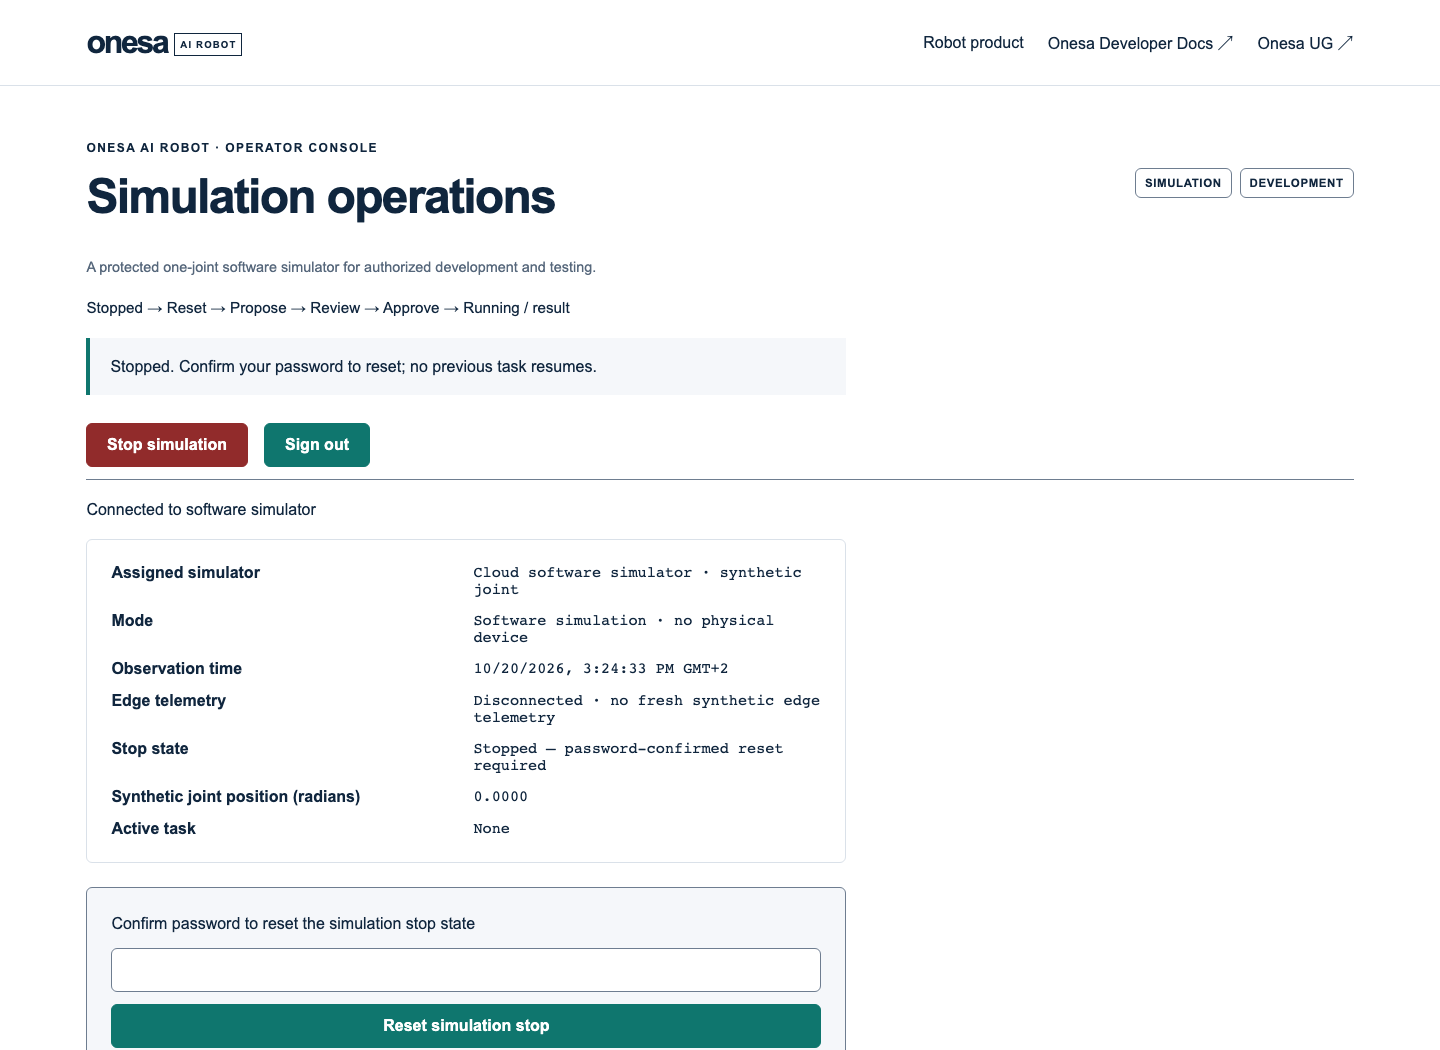
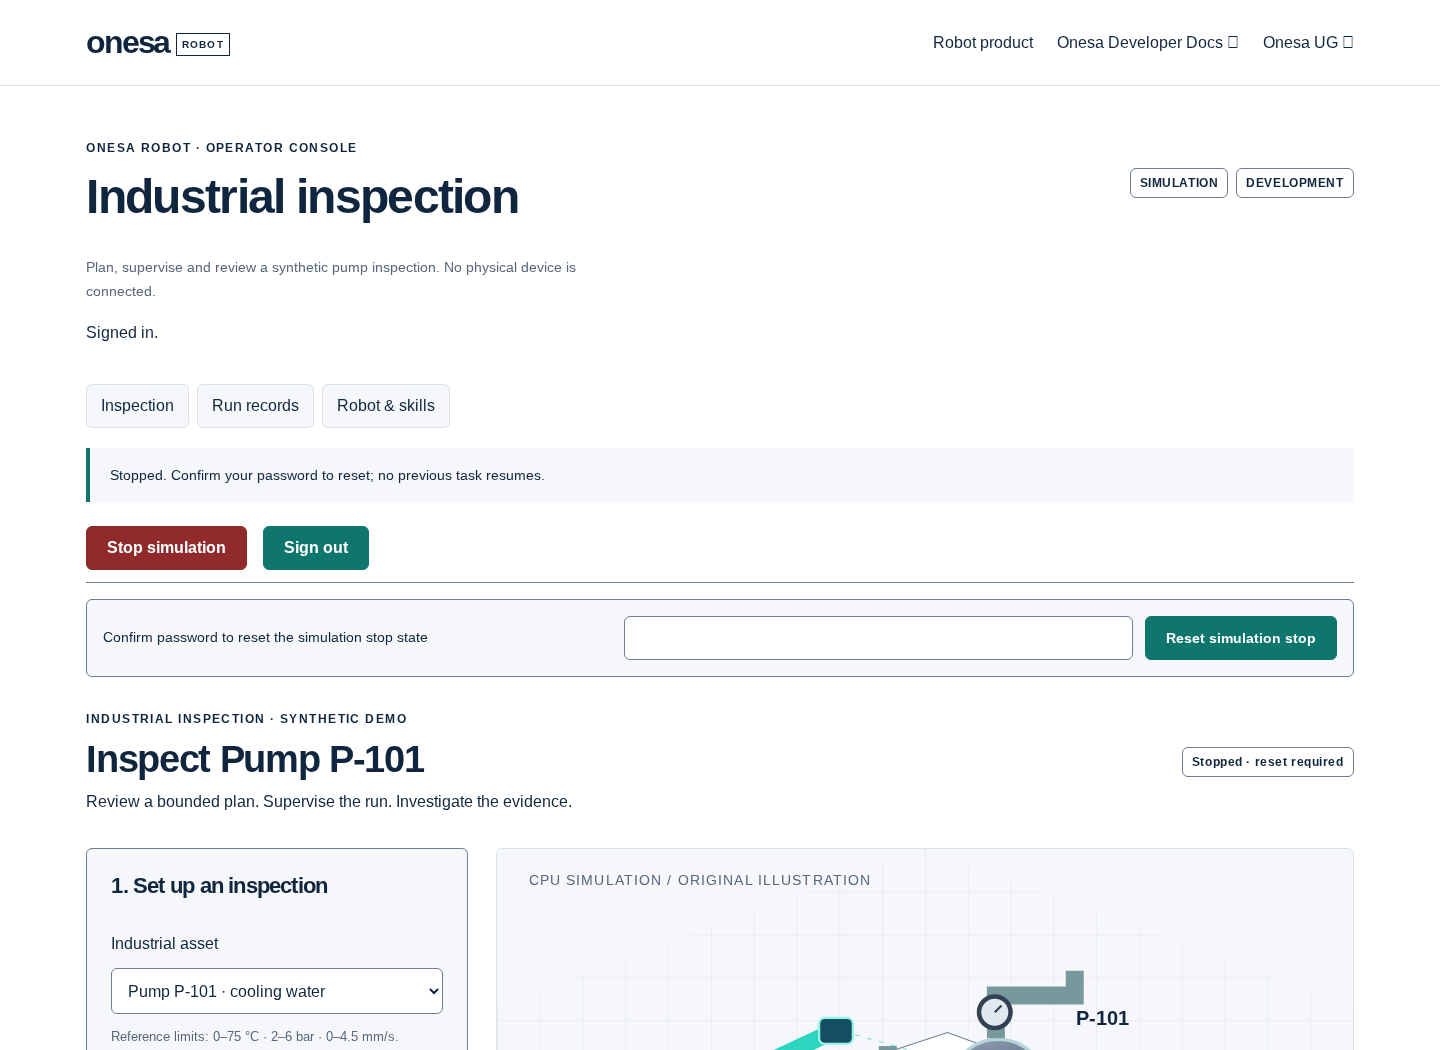
Use Onesa Robot on the retained public Portal renderer

diff --git a/onesa-company-portal-frontend/src/components/home-products.tsx b/onesa-company-portal-frontend/src/components/home-products.tsx
@@ -15,6 +15,6 @@ export function HomeRobot({locale}:{locale:Locale}) {
  const de=locale==='de',robot=products[locale][1];
  return <section className={`section ${styles.robot}`} aria-labelledby="home-robot-title">
   <div className={styles.robotImage}><picture><source media="(max-width:640px)" srcSet="/images/robot-concept-640.webp"/><img src="/images/robot-concept-1280.webp" width="1280" height="853" loading="lazy" decoding="async" alt={robot.imageAlt}/></picture></div>
-  <div className={styles.robotCopy}><p className="eyebrow">{de?'ROBOTIK · PHYSISCHE KI':'ROBOTICS · PHYSICAL AI'}</p><h2 id="home-robot-title">Onesa AI Robot</h2><p>{de?'Unsere Entwicklungsrichtung für industrielle Robotik: Pumpe P-101 in einer überwachten synthetischen Inspektion prüfen – vom begrenzten Plan und der Operator-Freigabe bis zu Bericht und Wiedergabe. Wahrnehmung, Roboterhardware und physische Steuerung benötigen eine eigene Integration und Qualifikation.':'Our industrial robotics development direction: inspect Pump P-101 in a supervised synthetic workflow, from a bounded plan and operator approval to a report and replay. Perception, robot hardware and physical control require their own integration and qualification.'}</p><Link className={styles.more} href={`/${locale}/products#product-robot`}>{de?'Robotik entdecken':'Explore robotics'}<span aria-hidden="true">→</span></Link></div>
+  <div className={styles.robotCopy}><p className="eyebrow">{de?'ROBOTIK · PHYSISCHE KI':'ROBOTICS · PHYSICAL AI'}</p><h2 id="home-robot-title">Onesa Robot</h2><p>{de?'Unsere Entwicklungsrichtung für industrielle Robotik: Pumpe P-101 in einer überwachten synthetischen Inspektion prüfen – vom begrenzten Plan und der Operator-Freigabe bis zu Bericht und Wiedergabe. Wahrnehmung, Roboterhardware und physische Steuerung benötigen eine eigene Integration und Qualifikation.':'Our industrial robotics development direction: inspect Pump P-101 in a supervised synthetic workflow, from a bounded plan and operator approval to a report and replay. Perception, robot hardware and physical control require their own integration and qualification.'}</p><Link className={styles.more} href={`/${locale}/products#product-robot`}>{de?'Robotik entdecken':'Explore robotics'}<span aria-hidden="true">→</span></Link></div>
  </section>;
 }

diff --git a/onesa-company-portal-frontend/src/config/products.ts b/onesa-company-portal-frontend/src/config/products.ts
@@ -19,7 +19,7 @@ export const products = {
       summary: 'Software for intelligent machines, with a protected operator workspace and cloud simulation at its core.',
       image: 'robot',
       imageAlt: 'Onesa concept artwork of a humanoid robot in an open city landscape.',
-      name: 'Onesa AI Robot',
+      name: 'Onesa Robot',
       category: 'Robotics · Physical AI',
       description: 'Industrial inspection software in development. Inspect synthetic Pump P-101 through a bounded plan, explicit operator approval, deterministic simulation and a traceable report with read-only replay. Hardware control remains a future integration.',
       capabilities: ['Supervised synthetic pump inspection with normal, anomaly, discrepancy and interrupted scenarios.', 'Versioned skills, timestamped evidence, reports and read-only replay.', 'Optional read-only AI asset-context file import is separately configured. No physical controller or learned policy is qualified.'],
@@ -47,7 +47,7 @@ export const products = {
       summary: 'Software für intelligente Maschinen – mit einem geschützten Operator-Arbeitsbereich und Cloud-Simulation als Grundlage.',
       image: 'robot',
       imageAlt: 'Onesa-Konzeptillustration eines humanoiden Roboters in einer offenen Stadtlandschaft.',
-      name: 'Onesa AI Robot',
+      name: 'Onesa Robot',
       category: 'Robotik · Physische KI',
       description: 'Software für industrielle Inspektionen in Entwicklung. Die synthetische Pumpe P-101 anhand eines begrenzten Plans, expliziter Operator-Freigabe, deterministischer Simulation und eines nachvollziehbaren Berichts mit schreibgeschützter Wiedergabe prüfen. Hardwaresteuerung bleibt eine zukünftige Integration.',
       capabilities: ['Überwachte synthetische Pumpeninspektion mit normalen Werten, Anomalien, Abweichungen und Unterbrechungen.', 'Versionierte Skills, zeitgestempelte Nachweise, Berichte und schreibgeschützte Wiedergabe.', 'Optionaler schreibgeschützter AI-Asset-Kontextimport wird separat konfiguriert. Physische Steuerung und gelernte Policies sind nicht qualifiziert.'],

diff --git a/onesa-company-portal-frontend/src/components/company-story.tsx b/onesa-company-portal-frontend/src/components/company-story.tsx
@@ -40,8 +40,8 @@ export function CompanyStory({ locale }: { locale: Locale }) {
         </p>
         <p>
           {de
-            ? "Onesa AI Robot ist eine separate Entwicklungslinie. Der heutige Schwerpunkt liegt auf geschützter Simulator-Software. Die Integration physischer Hardware ist ein weiterer Entwicklungsschritt."
-            : "Onesa AI Robot is a separate development line. Its current scope is protected simulator software. Physical hardware integration is a further development step."}
+            ? "Onesa Robot ist eine separate Entwicklungslinie. Der heutige Schwerpunkt liegt auf geschützter Simulator-Software. Die Integration physischer Hardware ist ein weiterer Entwicklungsschritt."
+            : "Onesa Robot is a separate development line. Its current scope is protected simulator software. Physical hardware integration is a further development step."}
         </p>
         <Link href={`/${locale}/products`}>
           {de

diff --git a/onesa-company-portal-frontend/src/components/product-illustration.tsx b/onesa-company-portal-frontend/src/components/product-illustration.tsx
@@ -23,7 +23,7 @@ function RobotConceptIllustration({locale}:{locale:string}) {
     <img src="/images/robot-concept-1280.webp" width="1280" height="853" loading="lazy" decoding="async"
      alt={de?'Konzeptillustration eines futuristischen humanoiden Roboters mit einer leuchtenden Kugel in einer offenen Stadtlandschaft.':'Concept artwork of a futuristic humanoid robot holding a luminous sphere in an open city landscape.'}/>
    </picture>
-   <div className="robot-concept-message"><p>ONESA AI ROBOT</p><strong>{de?'Intelligenz trifft Interaktion.':'Intelligence meets interaction.'}</strong></div>
+   <div className="robot-concept-message"><p>ONESA ROBOT</p><strong>{de?'Intelligenz trifft Interaktion.':'Intelligence meets interaction.'}</strong></div>
   </div>
   <figcaption><span>{de?'Robotik · Physische KI · Mensch-Maschine-Interaktion':'Robotics · Physical AI · Human–machine interaction'}</span></figcaption>
  </figure>;

diff --git a/onesa-company-portal-frontend/src/config/enquiry-topics.ts b/onesa-company-portal-frontend/src/config/enquiry-topics.ts
@@ -11,8 +11,8 @@ export const enquiryTopics = {
     category: "enterprise",
   },
   robot: {
-    en: "Onesa AI Robot — software development",
-    de: "Onesa AI Robot — Softwareentwicklung",
+    en: "Onesa Robot — software development",
+    de: "Onesa Robot — Softwareentwicklung",
     category: "enterprise",
   },
   enterprise: {
